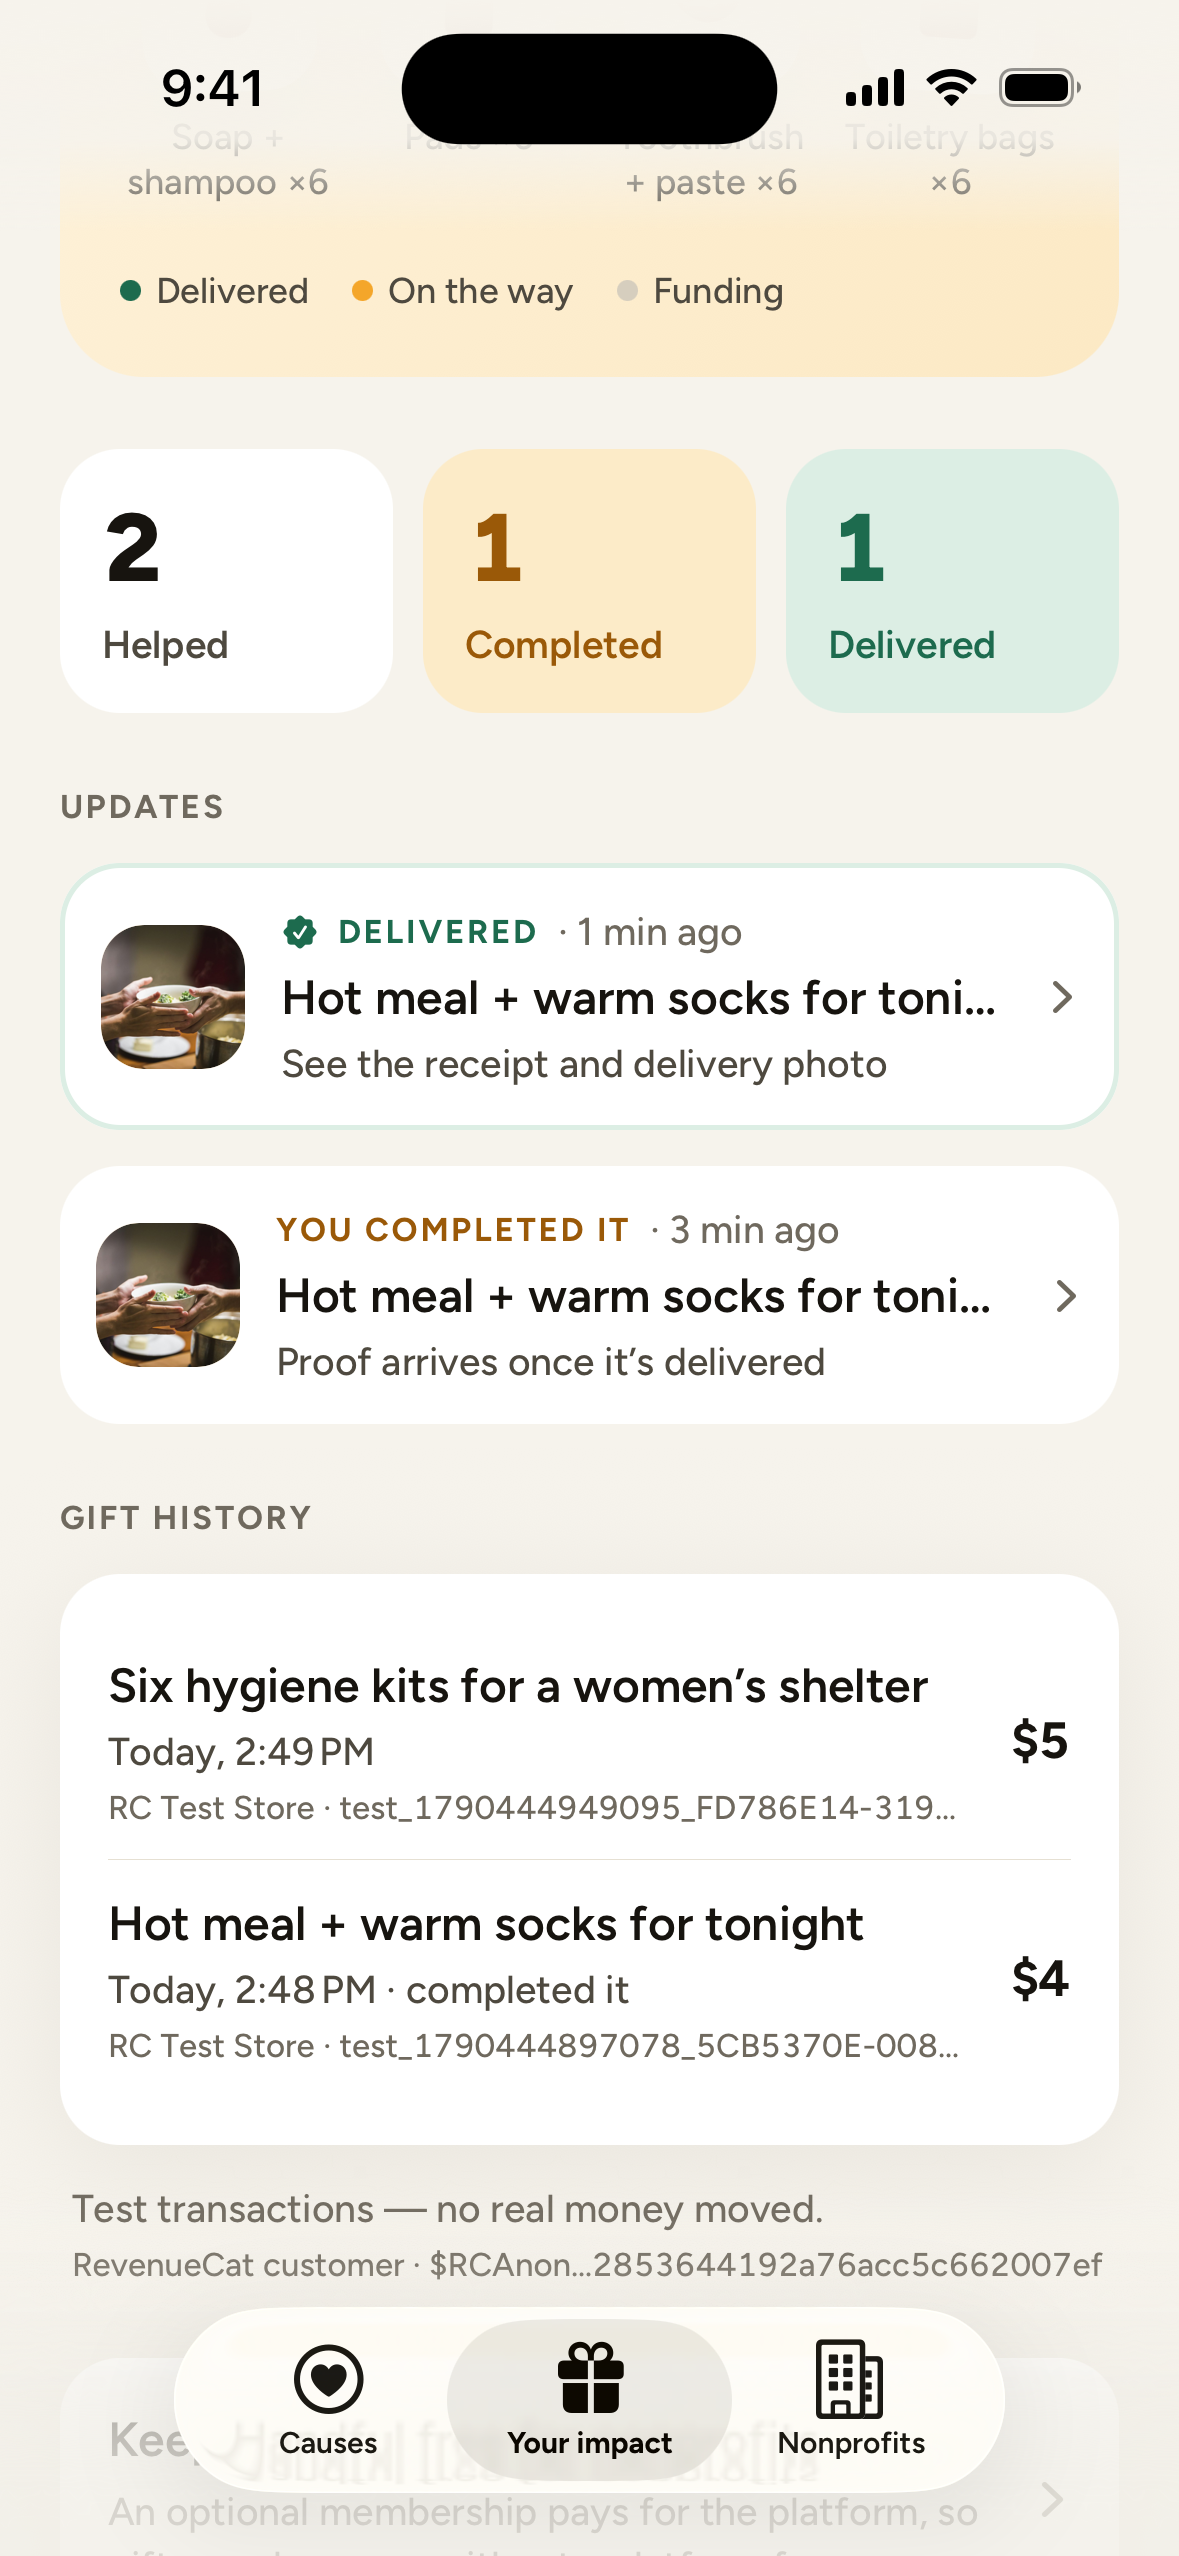
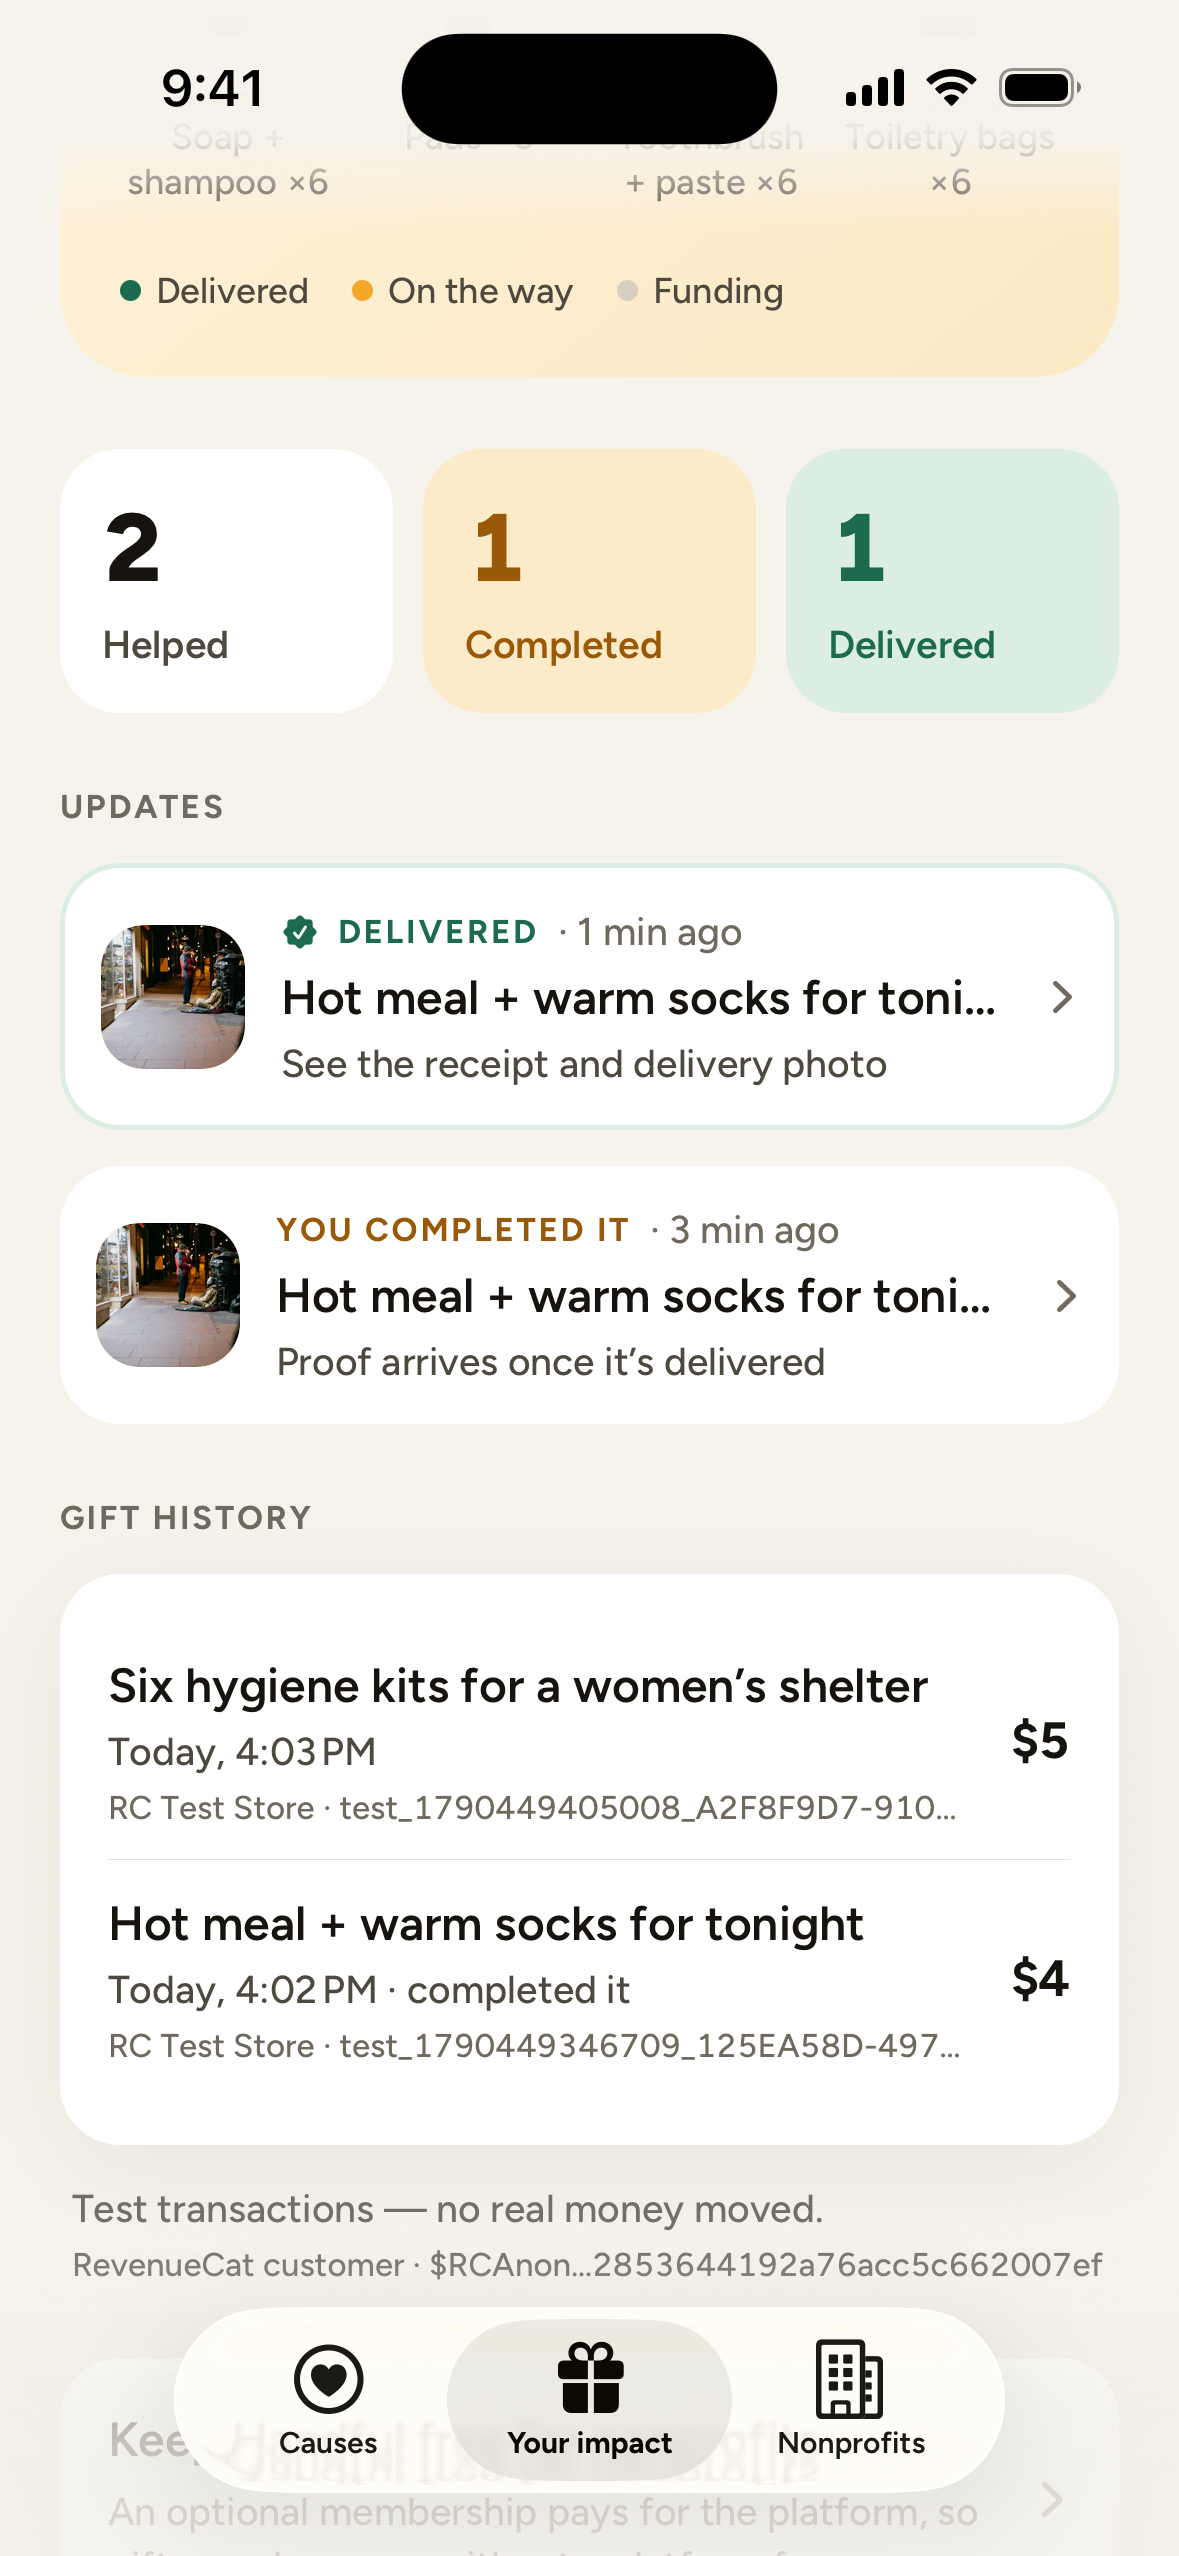
Documentary cause photos (Unsplash): the situation — night street, bus stop, walk to school, shelter, smoke-stained kitchen, street dog — with people only from behind or far away; credits and ethics updated; screenshots and gallery from a fresh real run

diff --git a/src/data/photos.ts b/src/data/photos.ts
@@ -1,9 +1,9 @@
 import type { ImageSourcePropType } from 'react-native';
 
 /**
- * Illustrative photos for the demo causes (Unsplash, credited in the README): the setting, the items
- * or a volunteer's hands — never the face of a person being helped. A cause without one falls back
- * to its illustration.
+ * Illustrative photos for the demo causes (Unsplash, credited in the README): the situation, with people
+ * only from behind, far away or as hands — never an identifiable face of someone being helped.
+ * A cause without one falls back to its illustration.
  */
 const CAUSE_PHOTOS: Partial<Record<string, ImageSourcePropType>> = {
   'bus-fare': require('@/assets/causes/bus-fare.jpg'),

diff --git a/submission/DEVPOST.md b/submission/DEVPOST.md
@@ -44,7 +44,7 @@ When organizations do try to show impact, it often goes wrong in the other direc
   - Every gift is a consumable (`handful_gift_1` … `handful_gift_20`, whole-dollar tiers so “Complete it” always matches the exact remainder), bought with `getProducts` + `purchaseStoreProduct`. The transaction ID is stored with the gift and shown in the donor’s history.
   - **Handful Supporter** is an auto-renewing subscription with an offering (`supporter`), a `$rc_monthly` package and a `supporter` entitlement read from `CustomerInfo`, with a live update listener. The paywall takes its price from the offering’s package and has **Restore purchases** (`restorePurchases`).
 - **Privacy Shield:** a local Expo module in Swift: `VNDetectFaceRectanglesRequest`, `VNRecognizeTextRequest`, `VNDetectDocumentSegmentationRequest`, ImageIO for metadata, Core Image (pixellate + Gaussian blur through a feathered mask) for redaction. Text classification (plates incl. Chilean formats, RUT and other ID numbers, addresses, phones, emails) happens in TypeScript.
-- **Design:** paper, ink and one warm accent. One type family (Figtree) for words and numbers, with a single warm accent word in headlines. Cover photos show the setting, the items or a volunteer’s hands — never the face of the person being helped — and are labelled “Illustrative photo” (Unsplash, credited in the README). A cause without a photo gets an illustration built from its budget. Color carries meaning everywhere: sun is action and progress, green is trust and delivery, violet is privacy.
+- **Design:** paper, ink and one warm accent. One type family (Figtree) for words and numbers, with a single warm accent word in headlines. Cover photos show the situation — a night street, a bus stop, a shelter, a street dog — with people only from behind or far away, never an identifiable face of someone being helped; they’re labelled “Illustrative photo” (Unsplash, credited in the README). A cause without a photo gets an illustration built from its budget. Color carries meaning everywhere: sun is action and progress, green is trust and delivery, violet is privacy.
 - **Motion with a job:** every animation explains something. The gift meter shows your share landing before you pay; covers’ items float gently; the cause cover stretches and parallaxes; the step that’s happening now pulses; a small burst of warm sparks marks a completed cause; “Your impact” is a shelf of the actual things you funded, each marked delivered, on the way or funding. Onboarding pages move in layers. Everything respects Reduce Motion.
 
 ## Challenges we ran into

diff --git a/README.md b/README.md
@@ -40,7 +40,7 @@ flowchart LR
   V -->|"'Delivered ✓' update"| D
 ```
 
-**Show the help, not the suffering.** Cover photos show the setting, the items or a volunteer’s hands — a meal being handed over, a bus stop, a street dog — never the face of the person being helped. They’re labelled “Illustrative photo”; causes without one get an illustration built from their budget.
+**Show the situation, never expose the person.** Cover photos show where the need is — a night street, a bus stop, a shelter dormitory, a street dog — with people only from behind, far away or as hands, so no one being helped can be identified. They’re labelled “Illustrative photo”; causes without one get an illustration built from their budget.
 
 ## Screenshots
 
@@ -226,15 +226,15 @@ What would change before real money moves:
 ### Photo credits
 
 Illustrative cause photos from [Unsplash](https://unsplash.com/license) (free to use under the Unsplash License), cropped and stripped of metadata:
-[Dan DeAlmeida](https://unsplash.com/photos/4aM_QE-HRLw) (hot meal) ·
+[Sinitta Leunen](https://unsplash.com/photos/2h0Vt8l-_GQ) (night street) ·
 [Anthony Young](https://unsplash.com/photos/pCJCfl5HWdA) (Toby) ·
-[Traian Titilincu](https://unsplash.com/photos/NR4DcGtlhPE) (bus stop) ·
-[National Cancer Institute](https://unsplash.com/photos/O13g6-Gtb5o) (prescription) ·
-[The Design Lady](https://unsplash.com/photos/1yRdOY4_Z78) (school supplies) ·
-[Maria Lin Kim](https://unsplash.com/photos/8RaUEd8zD-U) (groceries) ·
-[Deski Jayantoro](https://unsplash.com/photos/0slSvn3OhFU) (kit hand-off) ·
-[Erik Mclean](https://unsplash.com/photos/QJ3g4T8Cxu4) (blanket) ·
-[Miguel Constantin Montes](https://unsplash.com/photos/B-3P_nfuOcA) (hygiene).
+[the blowup](https://unsplash.com/photos/IQj77ckUsbM) (bus stop) ·
+[Towfiqu barbhuiya](https://unsplash.com/photos/Yw9Vgr6i_-0) (medication) ·
+[Sonu Agvan](https://unsplash.com/photos/_Xlcw84K7Tg) (walk to school) ·
+[ran liwen](https://unsplash.com/photos/3BzWXnG3Dvc) (mother and son) ·
+[Sergio Aguirre](https://unsplash.com/photos/z8EYXn0OAYM) (smoke-stained kitchen) ·
+[Mihály Köles](https://unsplash.com/photos/324p_yfAZhE) (blankets on the street) ·
+[Adem Percem](https://unsplash.com/photos/ypE9DgHdEYo) (shelter dormitory).
 Delivery-proof demo photos: Pexels and one AI-generated image (the tent), both processed by Privacy Shield in the app.
 
 ## License

diff --git a/docs/ETHICS.md b/docs/ETHICS.md
@@ -4,7 +4,7 @@ We went through the product screen by screen with the questions below, and chang
 
 ## Does this exploit vulnerable people?
 
-- **Covers never show the person being helped.** Demo covers are Unsplash photos of the setting, the items or a volunteer’s hands (a street dog for the animal cause), chosen so no one in a vulnerable situation is identifiable, and labelled “Illustrative photo”. We rejected candidates with faces of people in need, readable brands, or protected emblems (a red cross). A cause without a photo gets an illustration generated from its budget.
+- **Covers show the situation, never an identifiable person.** Demo covers are documentary Unsplash photos of where the need is (a night street, a bus stop, a shelter dormitory, a smoke-stained kitchen, a street dog). People appear only from behind, far away or as hands — never a recognisable face of someone being helped — and photos are labelled “Illustrative photo”. We rejected candidates with close-up faces of people in need, readable brands, or protected emblems (a red cross), and cropped two photos by hand. A cause without a photo gets an illustration generated from its budget.
 - **Beneficiaries are never named.** One demo cause names a dog (Toby); that’s the only name in the app.
 - **Stories describe the need, not the misery.** We rewrote seed copy around what the person *asked for* and what will be bought (“asked for a hot meal and dry socks before tonight’s cold front”), not how bad things are.
 - **No urgency tricks.** No countdown timers, no “people are starving while…”, no red. “Only $4 left” is a fact about the budget, not pressure; there is always a plain “Give” option and no nagging after a gift.

diff --git a/docs/VIDEO.md b/docs/VIDEO.md
@@ -48,5 +48,5 @@ Record each with `xcrun simctl io booted recordVideo --codec h264 <file>.mp4`, s
 ## Cause photos
 
 The nine demo cover photos in `assets/causes/` come from Unsplash (credits in the README), imported with
-`scripts/import-cause-photos.py` (3:2 crop, 1200 px, metadata stripped). The prescription photo was cropped
-by hand so no face shows at the edge.
+`scripts/import-cause-photos.py` (3:2 crop, 1200 px, metadata stripped). The night-street photo was cropped by hand
+to drop a dark foreground silhouette.
